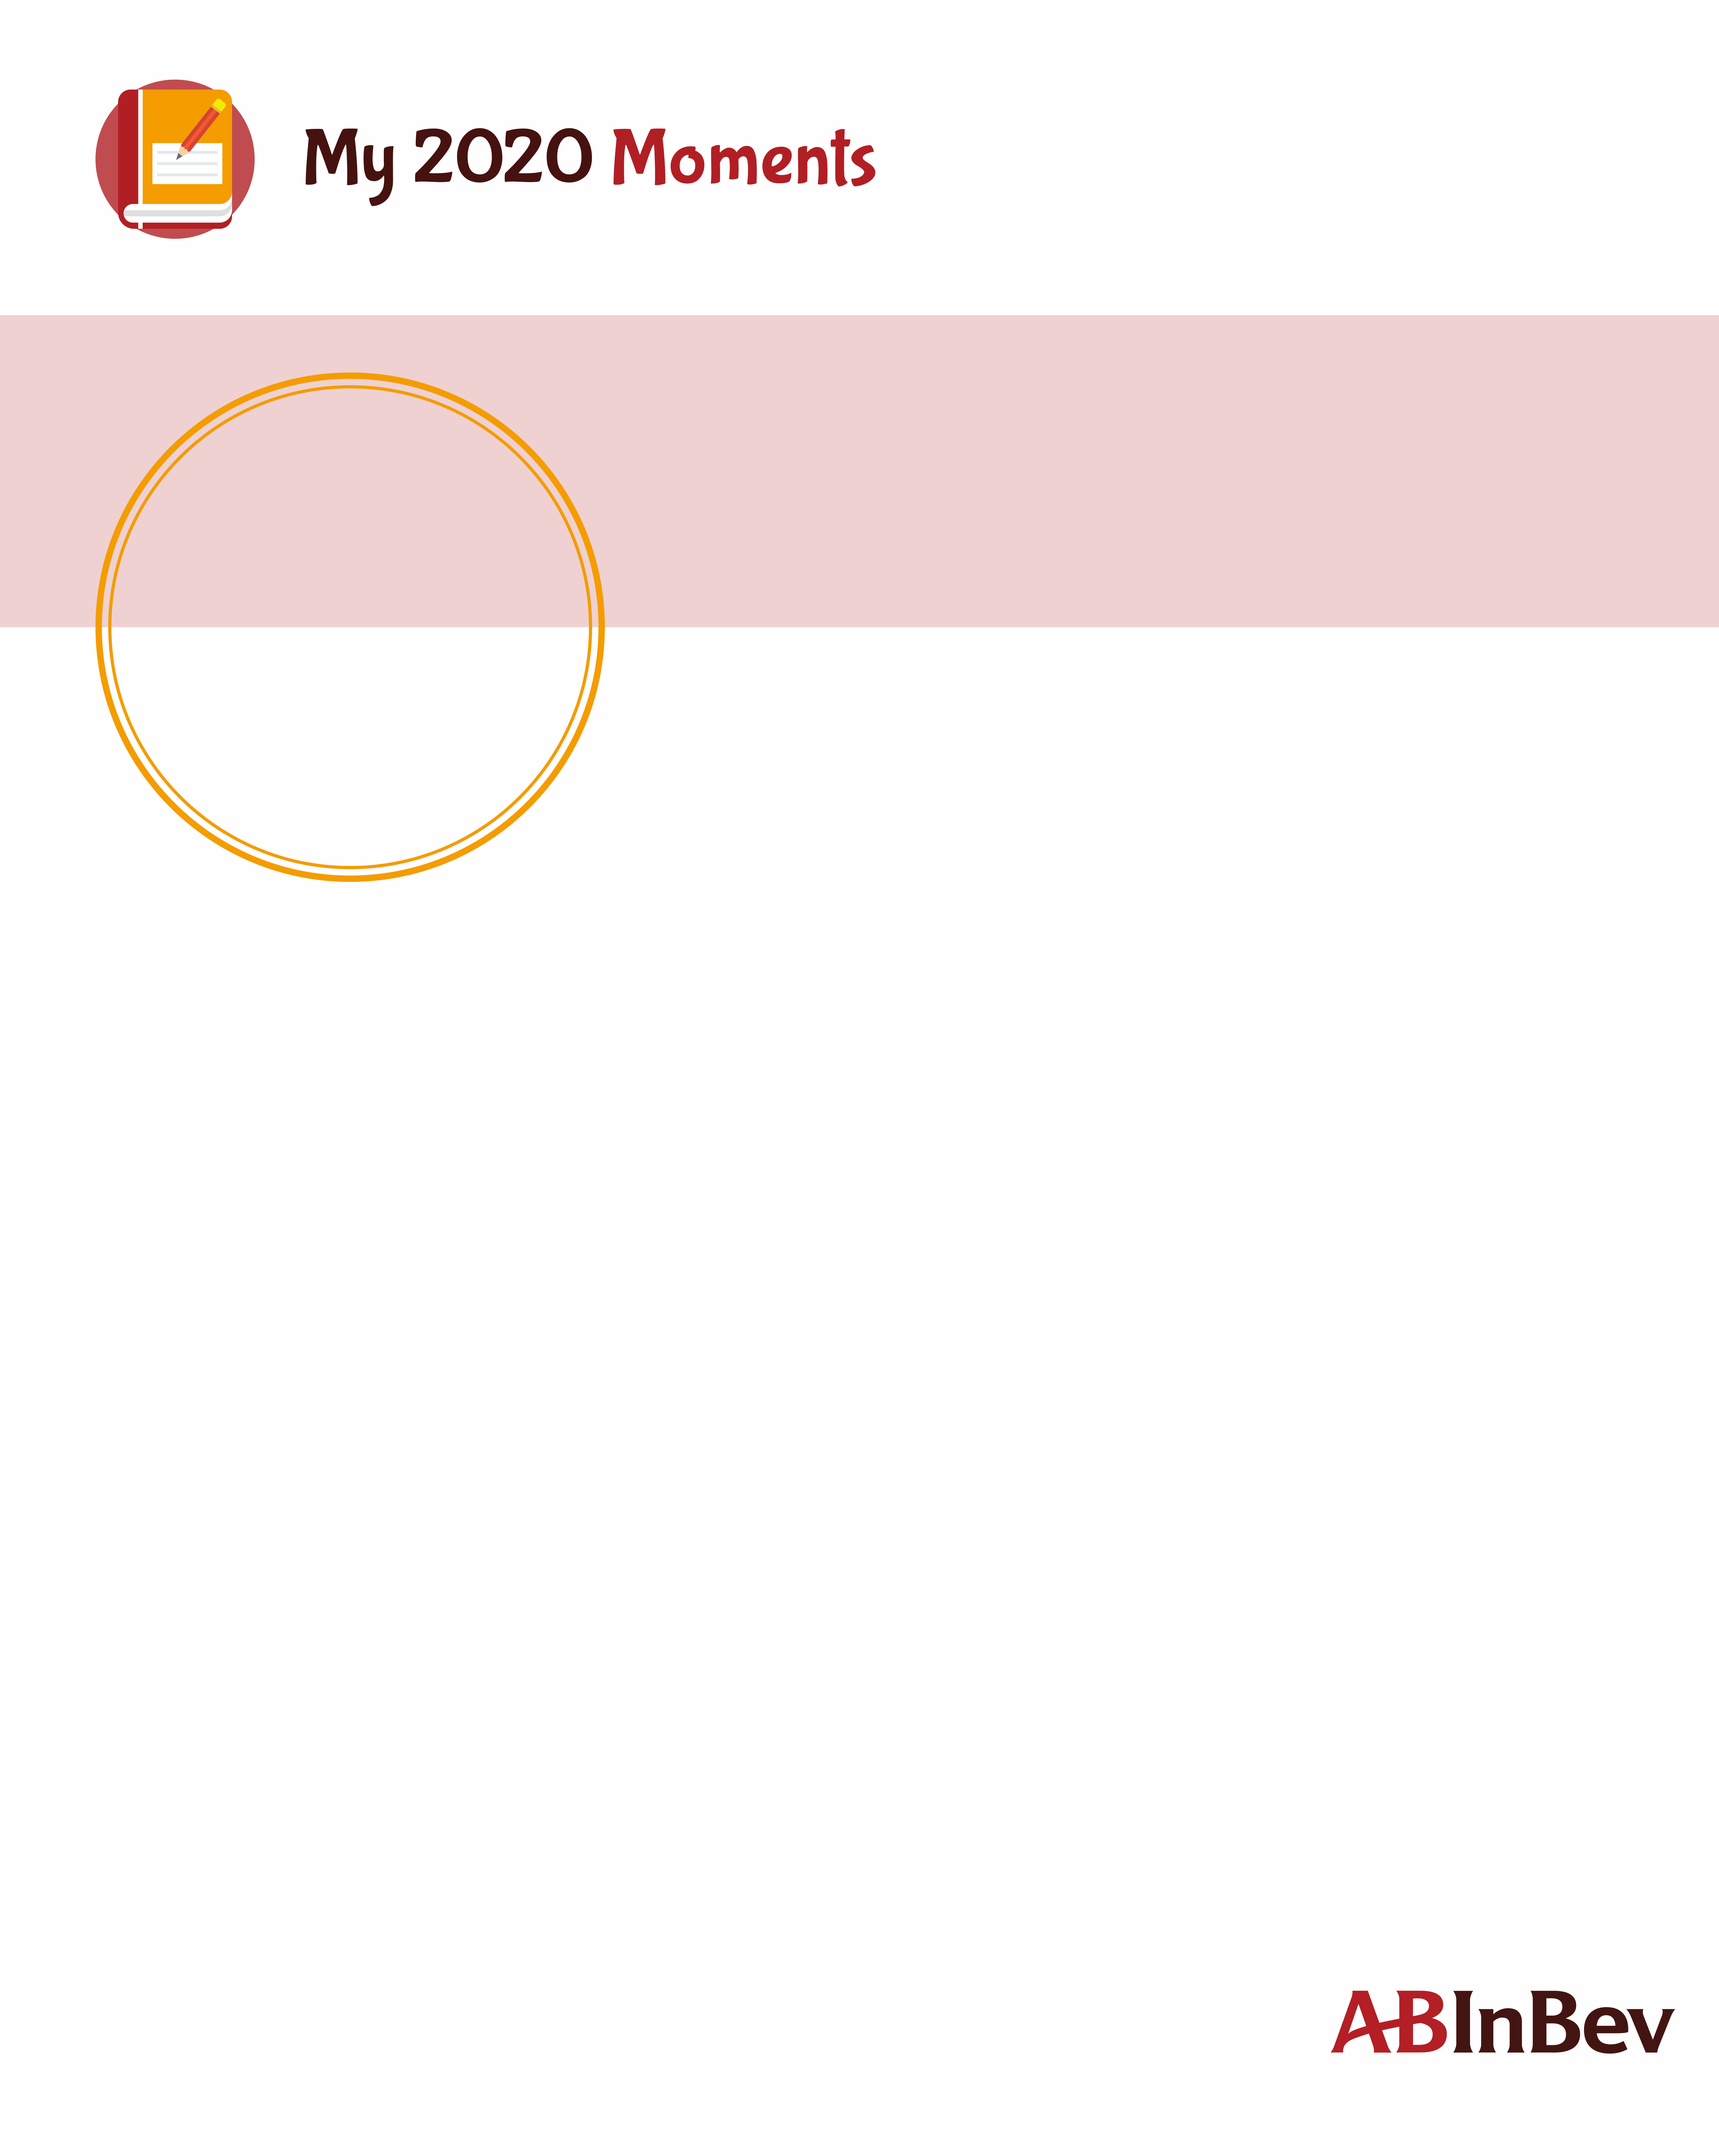
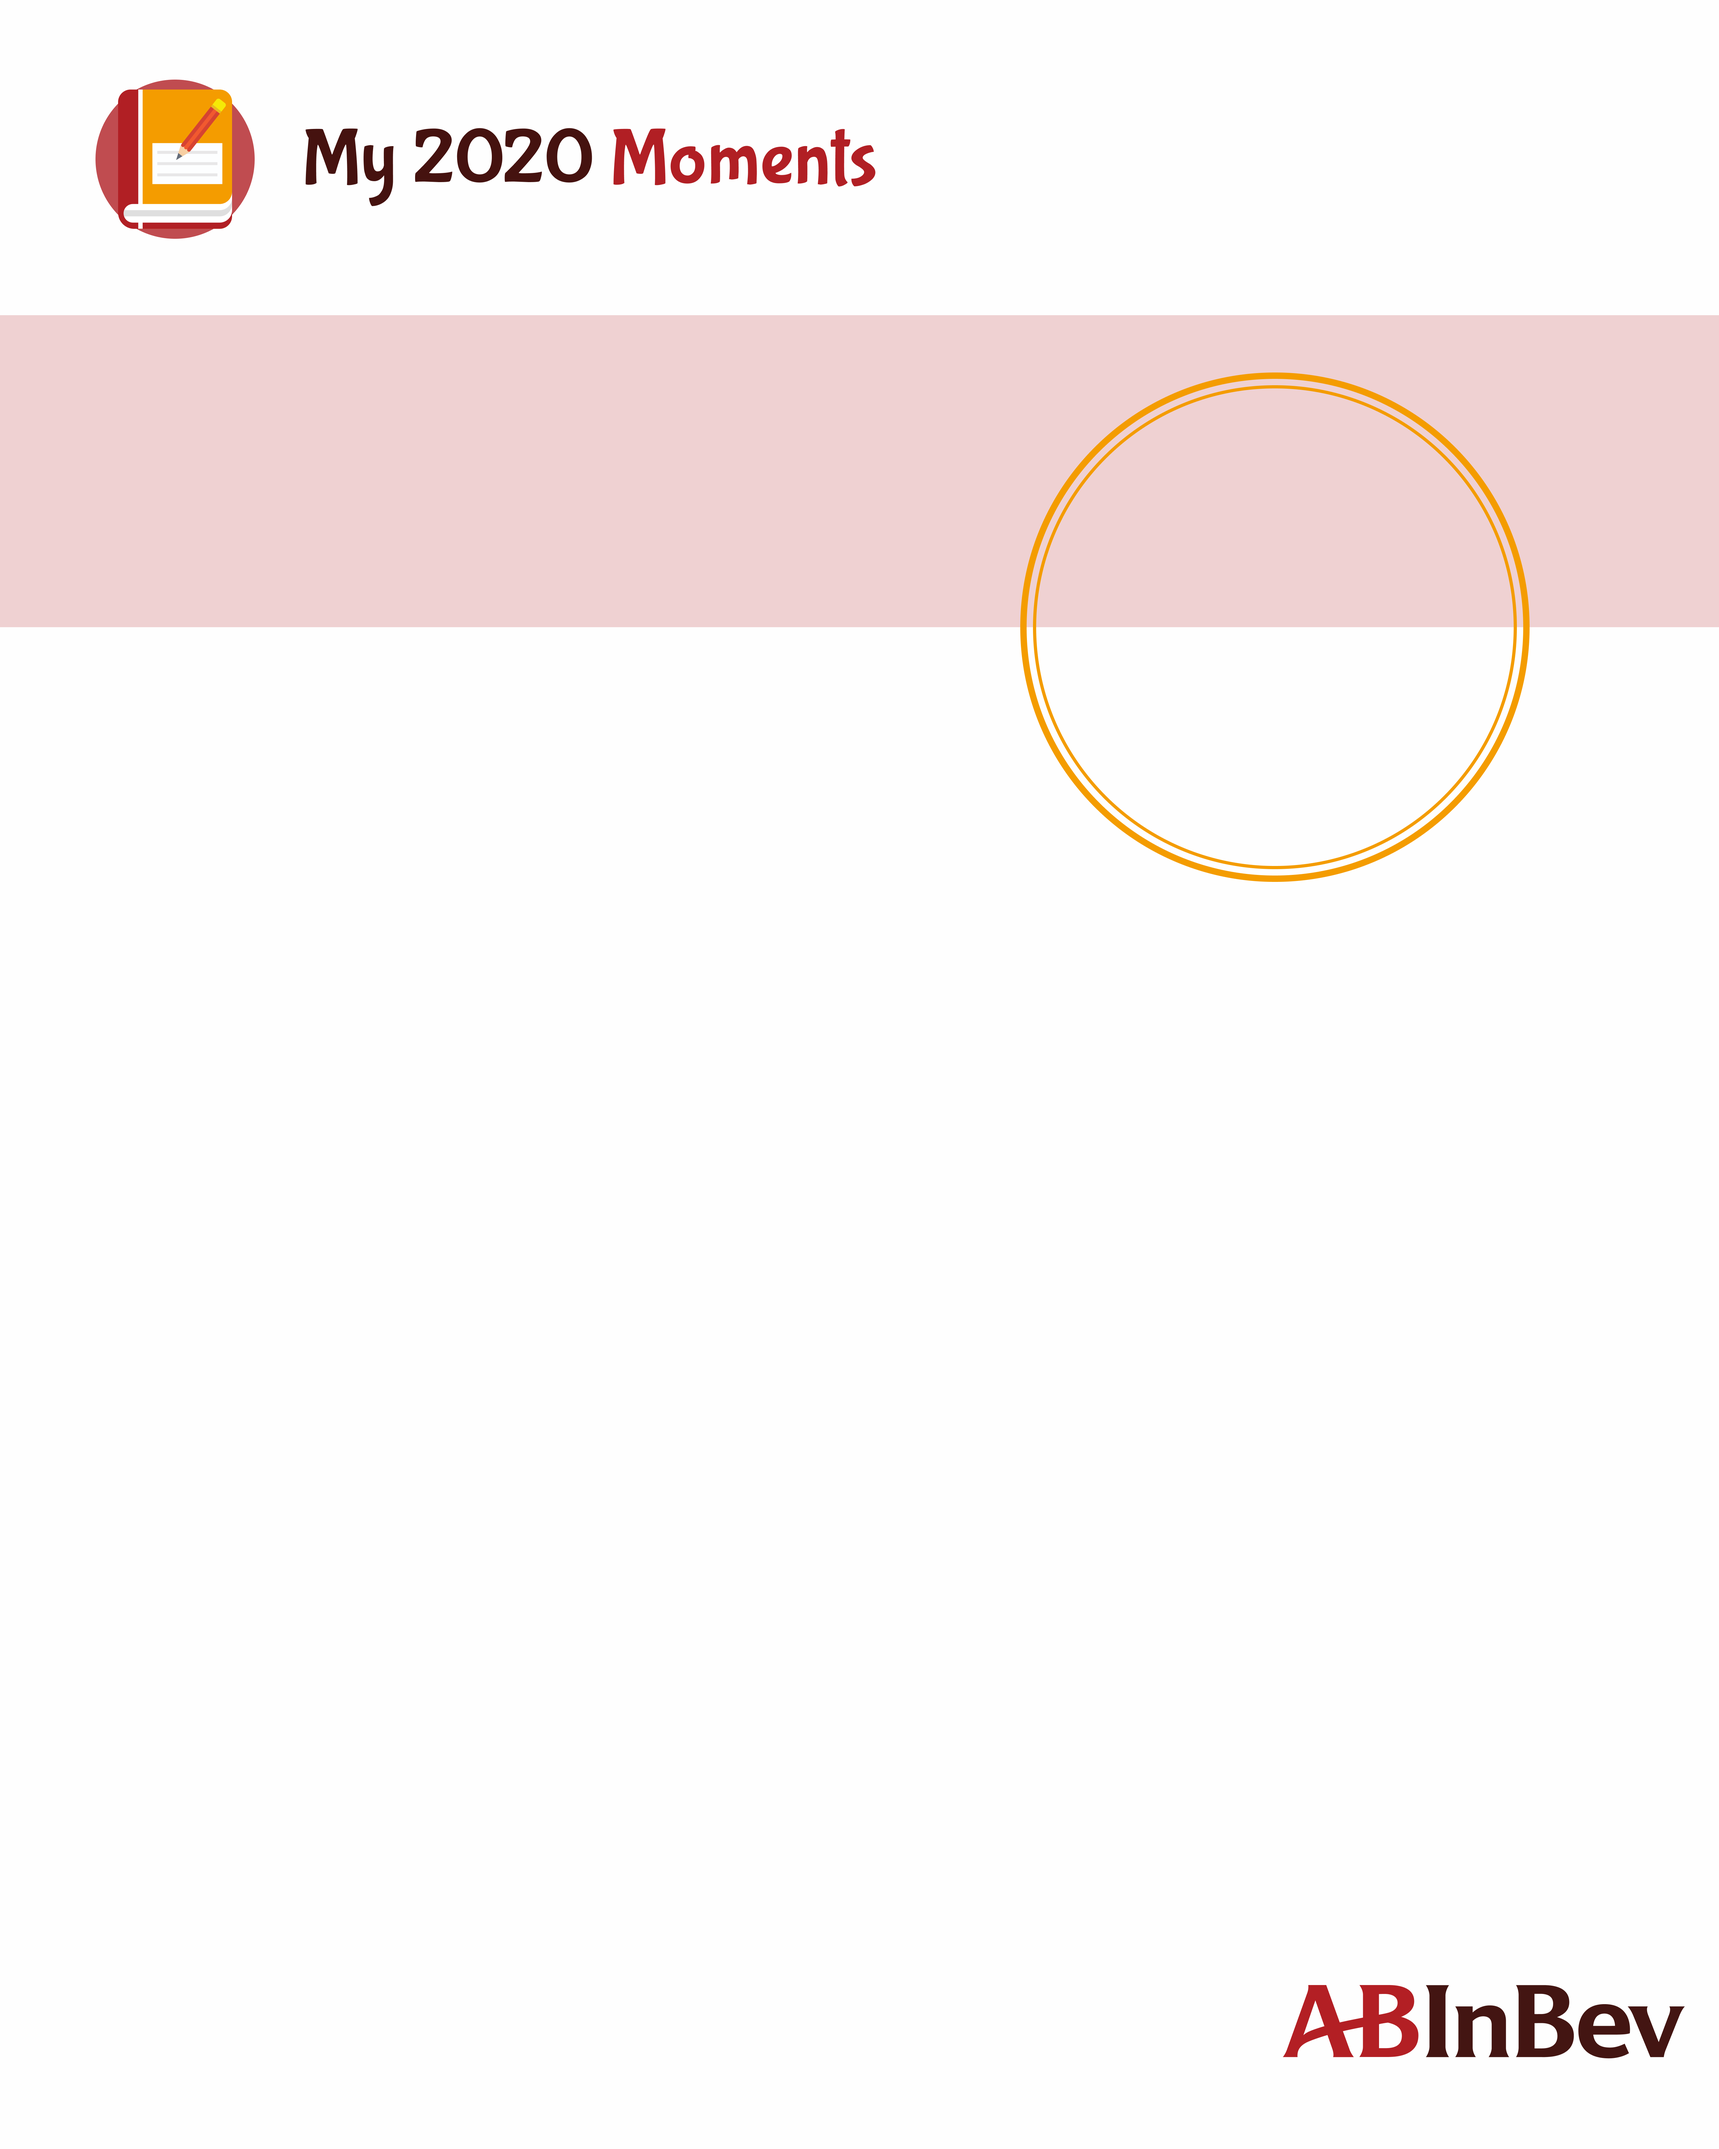
Completed edits

diff --git a/src/Pages/Home.js b/src/Pages/Home.js
@@ -411,18 +411,18 @@ function Result(props) {
                             width: '27.4074074%',
                             height: '22.07407407407%',
                             position: "absolute",
-                            left: "6.66666667%",
+                            left: "60.462962962%",
                             top: "18.2222222%"
                         }} />
                     {/* </Box> */}
-                    <Box className={classes.font80} position="absolute" left="40.1851852%" top="20.8888889%" style={{
+                    <Box className={classes.font80} position="absolute" left="10.925925925%" top="20.8888889%" style={{
                         fontFamily: 'Give You Glory',
                         color: '#45130F',
                         width: '58.3333333%',
                     }}>
                         {name.split(' ')[0]}
                     </Box>
-                    <Box className={classes.font38} position="absolute" left="40.1851852%" top="29.1851852%" style={{
+                    <Box className={classes.font38} position="absolute" left="10.925925925%" top="29.1851852%" style={{
                         fontFamily: 'Raleway',
                         fontWeight: '400',
                         color: '#45130F',
@@ -430,7 +430,7 @@ function Result(props) {
                     }}>
                         {role}
                     </Box>
-                    <Box className={classes.font40} position="absolute" left="40.1851852%" top="33.3333333%" style={{
+                    <Box className={classes.font40} position="absolute" left="10.925925925%" top="33.3333333%" style={{
                         fontFamily: 'Raleway',
                         fontWeight: '700',
                         color: '#B11F24',
@@ -438,7 +438,7 @@ function Result(props) {
                     }}>
                         {location}
                     </Box>
-                    <Box className={classes.font38} position="absolute" left="5.55555556%" top="44.5925926%" style={{
+                    <Box className={classes.font32} position="absolute" left="5.55555556%" top="44.5925926%" style={{
                         fontFamily: 'Raleway',
                         fontStyle: 'italic',
                         fontWeight: '600',
@@ -446,14 +446,14 @@ function Result(props) {
                         width: '88.1481481%',
                         height: '12.4444444%',
                     }}>
-                        My most interesting/impactful moment in 2020 so far is {moment}
+                        "{WOW}"
                     </Box>
                     <img id="template"
                         src={momentPhoto}
                         alt="moment"
                         style={{
                             left: "5.55555556%",
-                            top: "61.7777778%",
+                            top: "56.8888888888888%",
                             borderRadius: '8px',
                             position: "absolute",
                             objectFit: 'cover',
@@ -461,7 +461,7 @@ function Result(props) {
                             height: '27.2592593%',
                         }}
                     />
-                    <Box className={classes.font30} position="absolute" left="5.55555556%" top="89.037037%" style={{
+                    <Box className={classes.font30} position="absolute" left="5.55555556%" top="85.33333333333%" style={{
                         fontFamily: 'Raleway',
                         fontStyle: 'italic',
                         fontWeight: '600',
@@ -472,7 +472,7 @@ function Result(props) {
                     }}>
                         {caption}
                     </Box>
-                    <Box className={classes.font32} position="absolute" left="55.9259259%" top="69.4814815%" style={{
+                    <Box className={classes.font36} position="absolute" left="55.9259259%" top="56.8888888888%" style={{
                         fontFamily: 'Raleway',
                         fontStyle: 'italic',
                         fontWeight: '600',
@@ -480,7 +480,7 @@ function Result(props) {
                         width: '37.037037%',
                         height: '14.8148148%',
                     }}>
-                        "{WOW}"
+                        My most interesting / impactful moment in 2020 so far is {moment}
                             </Box>
                 </Box>
             </Paper>
